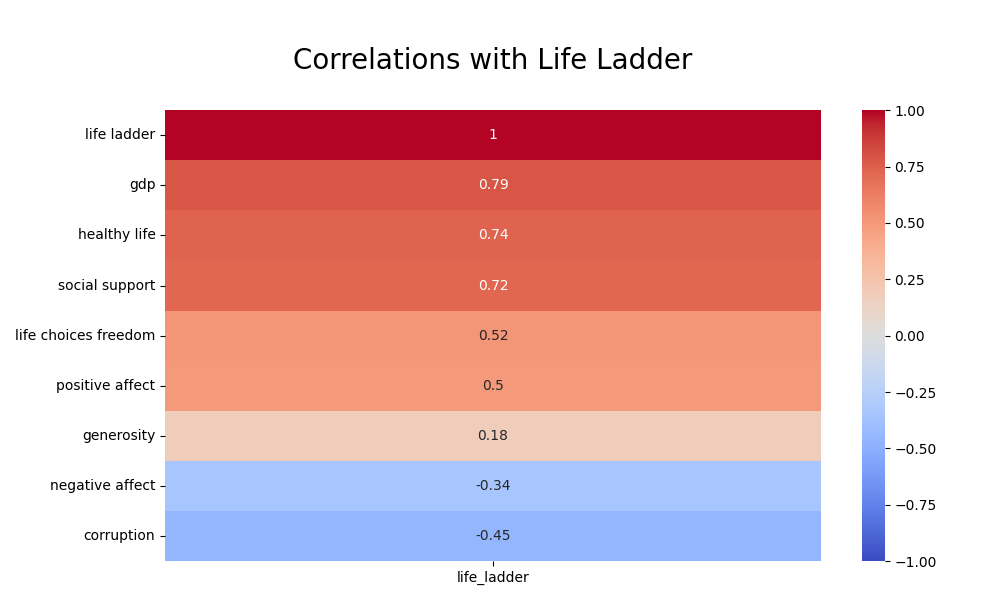
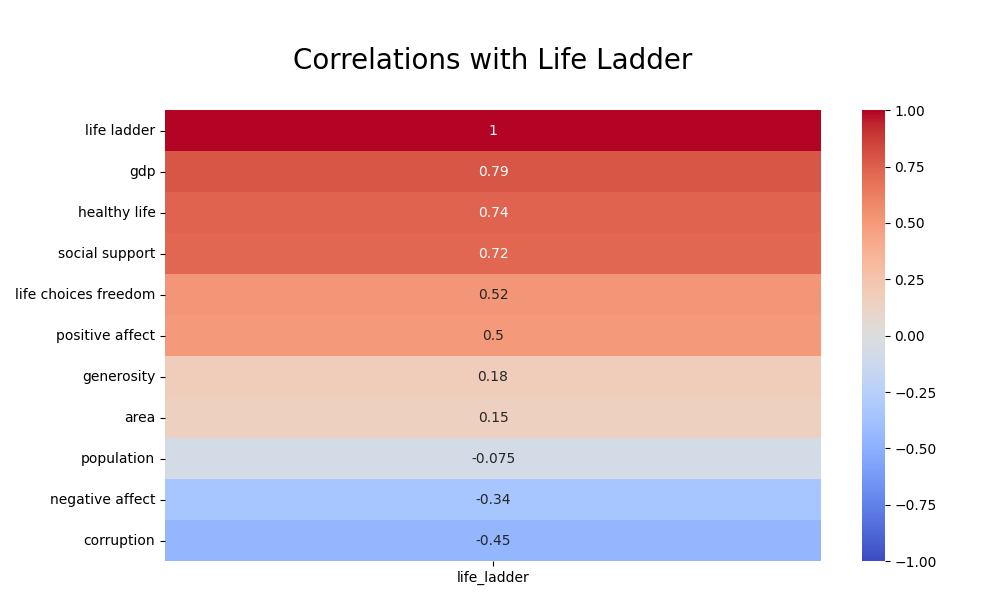
Updated.

diff --git a/regression_model.py b/regression_model.py
@@ -1,4 +1,6 @@
 import statsmodels.api as sm
+from sklearn.preprocessing import StandardScaler
+import pandas as pd
 
 from data.data_preprocessing import data_preprocessing
 
@@ -6,25 +8,31 @@ df = data_preprocessing()
 
 
 def linear_regression_model():
-    X = df[['gdp', 'social_support', 'healthy_life', 'life_choices_freedom',
-            'generosity', 'corruption', 'positive_affect', 'negative_affect']]
+    X = df[['gdp', 'social_support', 'healthy_life', 'life_choices_freedom', 'generosity',
+            'corruption', 'positive_affect', 'negative_affect', 'population', 'area']]
     y = df['life_ladder']
 
-    X = sm.add_constant(X)
+    scaler = StandardScaler()
+    X_scaled = scaler.fit_transform(X)
+    X_scaled_df = pd.DataFrame(X_scaled, columns=X.columns, index=X.index)
+    X_scaled_with_const = sm.add_constant(X_scaled_df)
 
-    model = sm.OLS(y, X).fit()
+    model = sm.OLS(y, X_scaled_with_const).fit()
 
     print(model.summary())
 
 
 def linear_regression_model_2():
-    X = df[['gdp', 'social_support', 'healthy_life', 'life_choices_freedom',
-            'generosity', 'corruption', 'positive_affect']]
+    X = df[['gdp', 'social_support', 'healthy_life', 'life_choices_freedom', 'generosity',
+            'corruption', 'positive_affect', 'area']]
     y = df['life_ladder']
 
-    X = sm.add_constant(X)
+    scaler = StandardScaler()
+    X_scaled = scaler.fit_transform(X)
+    X_scaled_df = pd.DataFrame(X_scaled, columns=X.columns, index=X.index)
+    X_scaled_with_const = sm.add_constant(X_scaled_df)
 
-    model = sm.OLS(y, X).fit()
+    model = sm.OLS(y, X_scaled_with_const).fit()
 
     print(model.summary())
 

diff --git a/assumptions_testing.py b/assumptions_testing.py
@@ -20,8 +20,8 @@ from data.data_preprocessing import data_preprocessing
 
 df = data_preprocessing()
 
-X = df[['gdp', 'social_support', 'healthy_life', 'life_choices_freedom',
-        'generosity', 'corruption', 'positive_affect', 'negative_affect']]
+X = df[['gdp', 'social_support', 'healthy_life', 'life_choices_freedom', 'generosity',
+        'corruption', 'positive_affect', 'negative_affect', 'population', 'area']]
 y = df['life_ladder']
 
 X_train, X_test, y_train, y_test = train_test_split(X, y, test_size=0.2, random_state=42)
@@ -37,7 +37,7 @@ residuals = y_test - y_pred
 threshold = 3 * np.std(residuals)
 outliers = np.where(np.abs(residuals) > threshold)[0]
 outlier_data = df.iloc[outliers]
-print('Outliers:', outlier_data)
+print('Outliers:\n', outlier_data)
 
 
 # Testing if errors (residuals) are independent.
@@ -110,9 +110,6 @@ print('p-value:', bp_test[1])
 gq_test = het_goldfeldquandt(residuals, sm.add_constant(X_test))
 print('p-value:', gq_test[1])
 
-white_test = het_white(residuals, sm.add_constant(X_test))
-print('p-value:', white_test[1])
-
 
 # Logarithmic transformation.
 df['log_life_ladder'] = np.log(df['life_ladder'])
@@ -144,3 +141,6 @@ print(f"Mean Squared Error: {mse}")
 shapiro_test = shapiro(residuals)
 # normal if p value > 0.05
 print('Shapiro-Wilki test p-value for log data:', shapiro_test.pvalue)
+
+white_test = het_white(residuals, sm.add_constant(X_test))
+print('white test p-value:', white_test[1])

diff --git a/correlation.py b/correlation.py
@@ -13,12 +13,14 @@ new_variable_names_dict = {
     'corruption': 'corruption',
     'positive_affect': 'positive affect',
     'negative_affect': 'negative affect',
+    'population': 'population',
+    'area': 'area'
 }
 
 
 def variables_correlation():
     data = data_preprocessing()
-    corr_data = data.drop(['country', 'year'], axis=1)
+    corr_data = data.drop(['country', 'year', 'continent'], axis=1)
 
     old_labels = corr_data.corr().columns
     new_labels = [new_variable_names_dict.get(label, label) for label in old_labels]
@@ -35,7 +37,7 @@ def variables_correlation():
 
 def variables_correlation_with_life_ladder():
     data = data_preprocessing()
-    corr_data = data.drop(['country', 'year'], axis=1)
+    corr_data = data.drop(['country', 'year', 'continent'], axis=1)
 
     corr_matrix = corr_data.corr()
     sorted_corr = corr_matrix[['life_ladder']].sort_values('life_ladder', ascending=False)
@@ -56,7 +58,7 @@ def variables_correlation_with_life_ladder():
 
 def variables_correlation_with_gdp():
     data = data_preprocessing()
-    corr_data = data.drop(['country', 'year', 'life_ladder'], axis=1)
+    corr_data = data.drop(['country', 'year', 'continent', 'life_ladder'], axis=1)
 
     corr_matrix = corr_data.corr()
     sorted_corr = corr_matrix[['gdp']].sort_values('gdp', ascending=False)

diff --git a/data/data_preprocessing.py b/data/data_preprocessing.py
@@ -9,6 +9,7 @@ def data_preprocessing():
     source_data['year'] = pd.to_datetime(source_data['year'], format='%Y')
 
     data = source_data.dropna().copy()
+    data = data.drop(columns=['Country', 'Capital'])
     data = data[data['Country name'] != 'Haiti']
 
     data.rename(columns={'Country name': 'country',
@@ -21,6 +22,9 @@ def data_preprocessing():
                          'Perceptions of corruption': 'corruption',
                          'Positive affect': 'positive_affect',
                          'Negative affect': 'negative_affect',
+                         'Population 2021': 'population',
+                         'Area': 'area',
+                         'Continent': 'continent'
                          },
                 inplace=True)
 

diff --git a/eda.py b/eda.py
@@ -8,7 +8,7 @@ df = data_preprocessing()
 
 def identify_variable_distribution():
     column_names = ['life_ladder', 'gdp', 'social_support', 'healthy_life', 'life_choices_freedom', 'generosity',
-                    'corruption', 'positive_affect', 'negative_affect']
+                    'corruption', 'positive_affect', 'negative_affect', 'population', 'area']
 
     num_columns = 3
     num_rows = (len(column_names) + 1) // num_columns

diff --git a/data/read_data.py b/data/read_data.py
@@ -3,7 +3,10 @@ import pandas as pd
 
 def read_data():
     try:
-        data = pd.read_excel('data/world_happiness.xls')
+        countries_data = pd.read_excel('data/world_happiness.xls')
+        continents_data = pd.read_excel('data/continents.xlsx')
+        data = pd.merge(countries_data, continents_data, left_on='Country name', right_on='Country', how='left')
+
         return data
 
     except Exception as e:

diff --git a/exploratory_data_analysis.md b/exploratory_data_analysis.md
@@ -10,5 +10,7 @@
 [Perceptions of corruption](results/eda/corruption.txt)  
 [Positive affect](results/eda/positive_affect.txt)  
 [Negative affect](results/eda/negative_affect.txt)  
+[Population](results/eda/population.txt)  
+[Area](results/eda/area.txt)  
 
 ![histogram](static/graphs/histograms.png)
